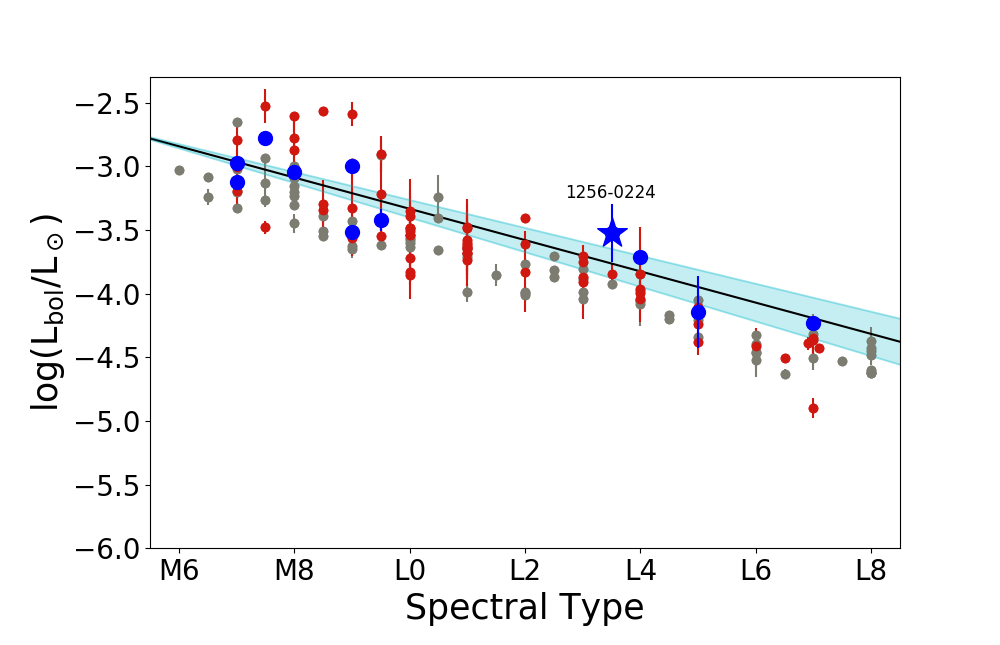
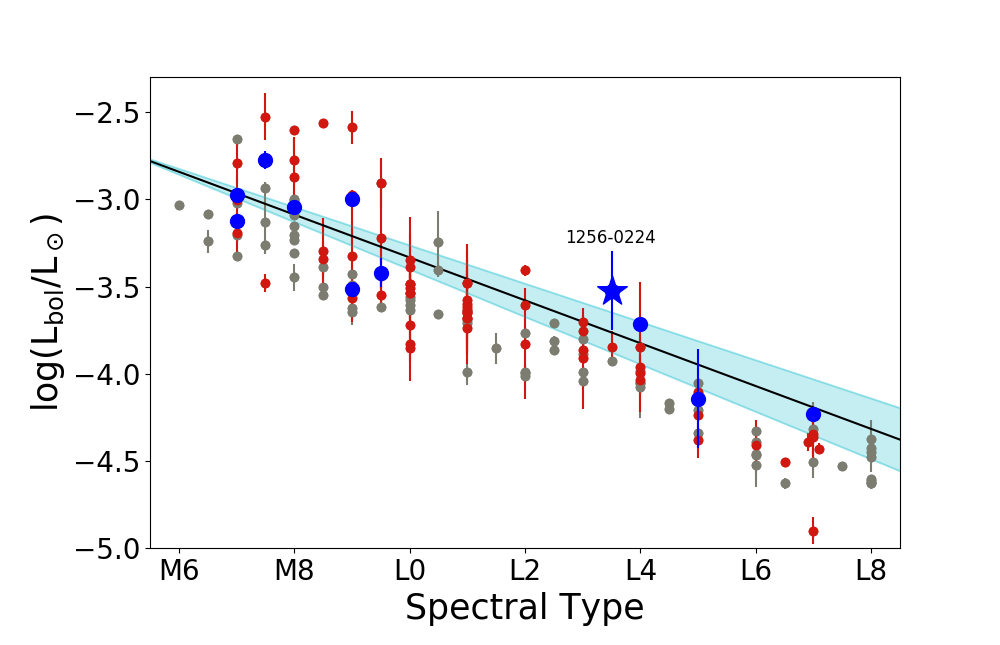
axis limit changes

diff --git a/SpTvTeff.py b/SpTvTeff.py
@@ -25,7 +25,7 @@ ax1 = fig.add_subplot(111)
 fig.set_size_inches(10, 6.45)  # to make sure proper size run entire code at once and change 8 to 6.45 to
 plt.gcf().subplots_adjust(bottom=0.15, left=0.15)
 plt.xlim([5.5, 18.5])
-plt.ylim([500, 3200])
+plt.ylim([900, 3200])
 
 # ------ Axes Labels --------
 plt.xticks([6, 8, 10, 12, 14, 16, 18], ['M6','M8', 'L0', 'L2', 'L4', 'L6', 'L8'], fontsize=20)

diff --git a/SptvLbol.py b/SptvLbol.py
@@ -25,7 +25,7 @@ ax1 = fig.add_subplot(111)
 fig.set_size_inches(10, 6.45)  # to make sure proper size run entire code at once and change 8 to 6.45 to
 plt.gcf().subplots_adjust(bottom=0.15, left=0.15)
 plt.xlim([5.5, 18.5])
-plt.ylim([-6, -2.3])
+plt.ylim([-5, -2.3])
 
 # ------ Axes Labels --------
 plt.xticks([6, 8, 10, 12, 14, 16, 18], ['M6','M8', 'L0', 'L2', 'L4', 'L6', 'L8'], fontsize=20)
